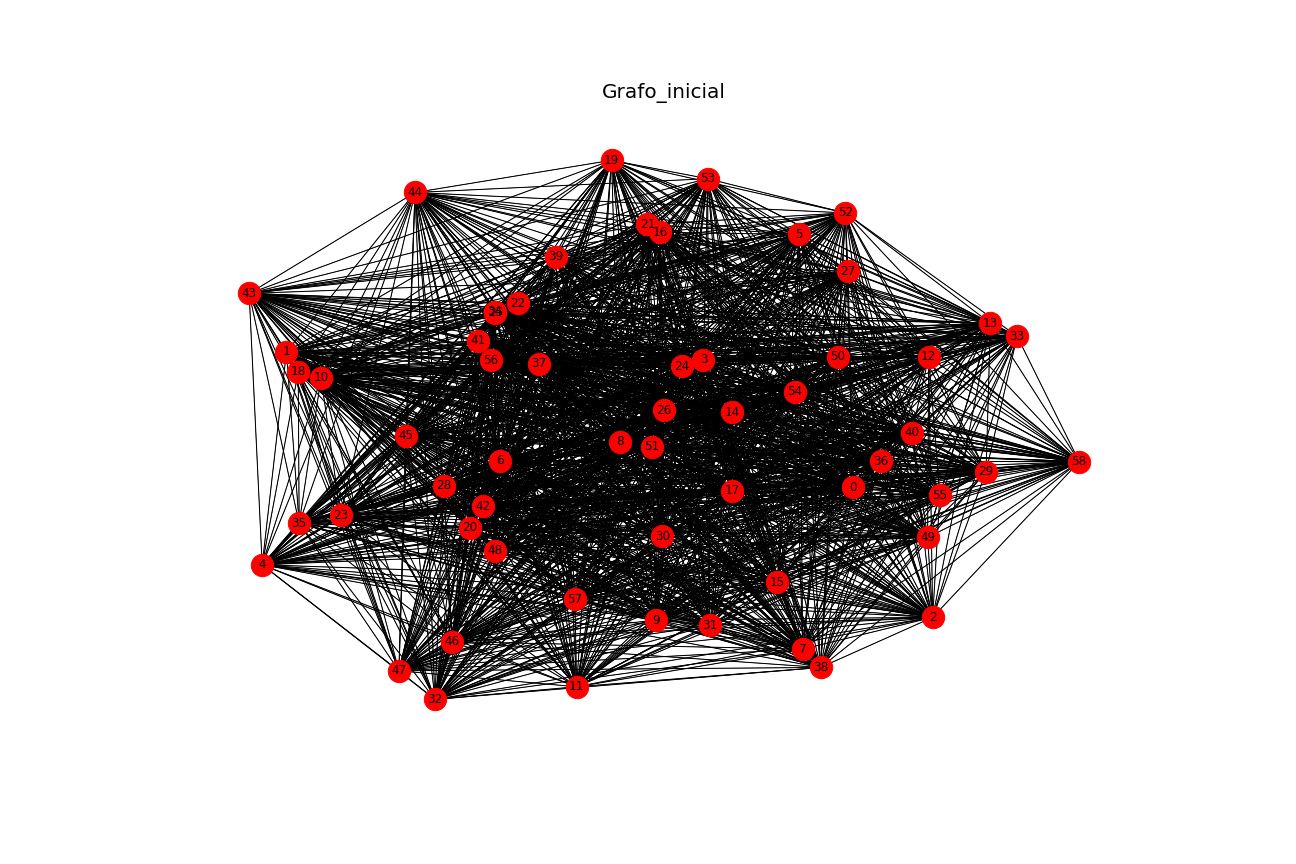
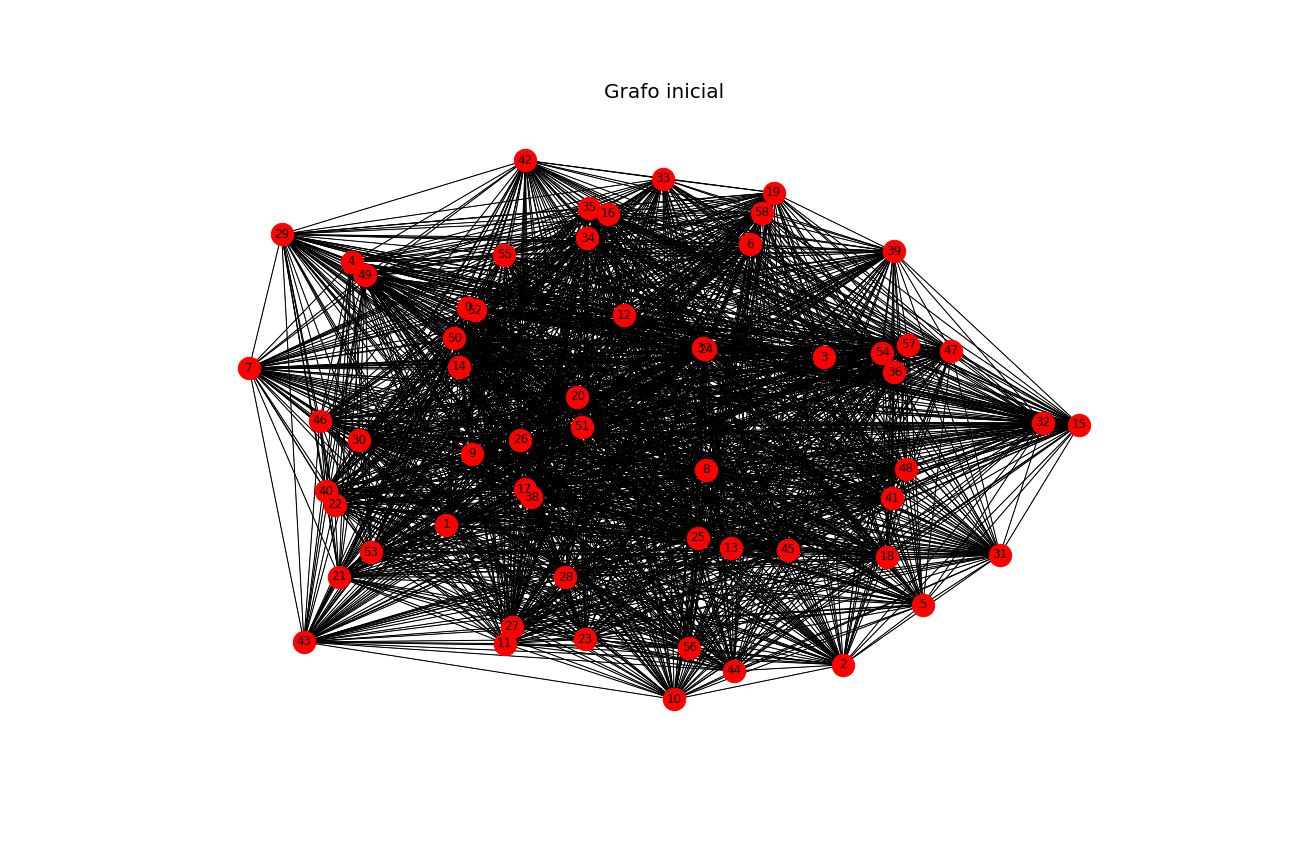
Imagens atualizadas

Changed region(s): [[0.1852, 0.1562, 0.8642, 0.8438], [0.463, 0.0938, 0.5556, 0.125]]

diff --git a/Projeto4/Funcoes_problema4.py b/Projeto4/Funcoes_problema4.py
@@ -22,7 +22,7 @@ def cria_labels(G,arquivo):
         G.nodes[v]['label'] = Cidades[v]
     return nx.get_node_attributes(G,'label')
 
-def plot(nome,titulo):
+def plot(nome,titulo,nome_arquivo):
     plt.figure(1, figsize=(18, 12))             
     pos=nx.spring_layout(nome)      
     plt.axis('off')
@@ -30,7 +30,7 @@ def plot(nome,titulo):
     nx.draw_networkx_edges(nome,pos,width=0.4)
     nx.draw_networkx_nodes(nome,pos,node_size=500)
     plt.title(titulo, size=20)
-    arquivo = titulo + ".png"
+    arquivo = nome_arquivo + ".png"
     plt.savefig(arquivo)
     plt.show()
 

diff --git a/Projeto4/Problema4.py b/Projeto4/Problema4.py
@@ -72,13 +72,13 @@ Floresta1 = Dijkstra(G, r1, r2, None)
 Floresta2 = Dijkstra(G, raiz1, raiz2, raiz3) 
 
 #Plota o grafo inicial
-plot(G,"Grafo_inicial")
+plot(G,"Grafo inicial","Grafo_inicial")
 
 #Plota a Floresta 1
-plot(Floresta1,"Floresta1")
+plot(Floresta1,"Floresta 1","Figura1")
 
 #Plota a Floresta 2
-plot(Floresta2,"Floresta2")
+plot(Floresta2,"Floresta 2","Figura2")
 
         
     
